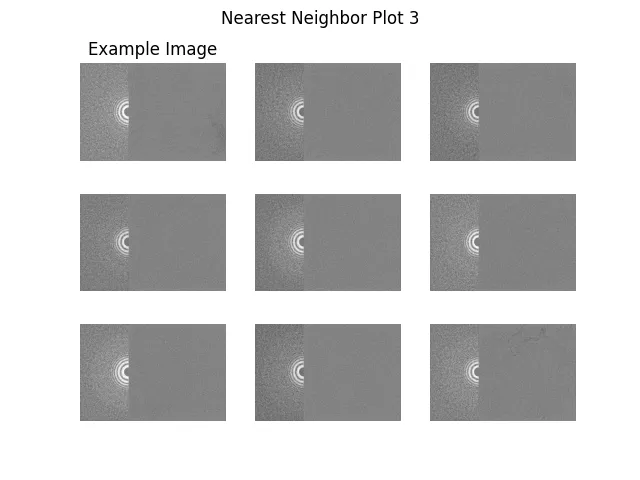
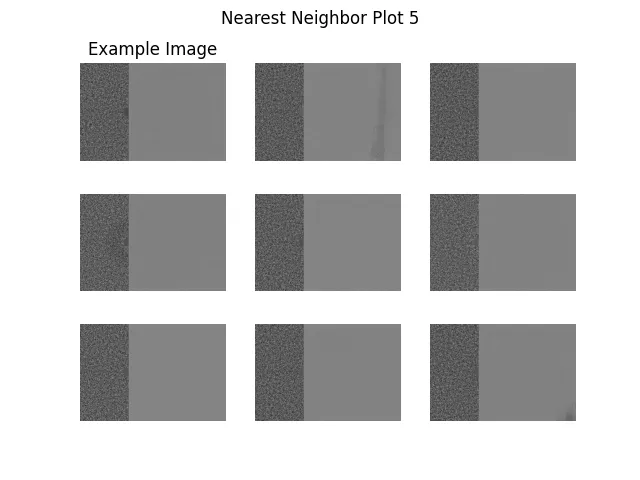
Switch back to empty hole example

diff --git a/docs/eval2d.md b/docs/eval2d.md
@@ -100,7 +100,7 @@ The nearest neighbors plots are useful for exploring similar images in the origi
     ![Nearest neighbors real](assets/nearest_neighbors_mg.webp)
 
 === "Fourier domain"
-    The example image here shows a power spectrum (left half) with high-quality features (no water ring, Thon rings extending to high resolution) in the Fourier domain, and captured at lower defocus. The nearest neighbors also show power spectra with high-quality features which look to be acquired at similarly low defocus.
+    The example image here shows a power spectrum (left half) with low-quality features (no Thon rings, likely acquired over an empty hole) in the Fourier domain. The nearest neighbors also show power spectra with similar low-quality features.
     ![Nearest neighbors FFT](assets/nearest_neighbors_ps.webp)
 
 ### Clustering
